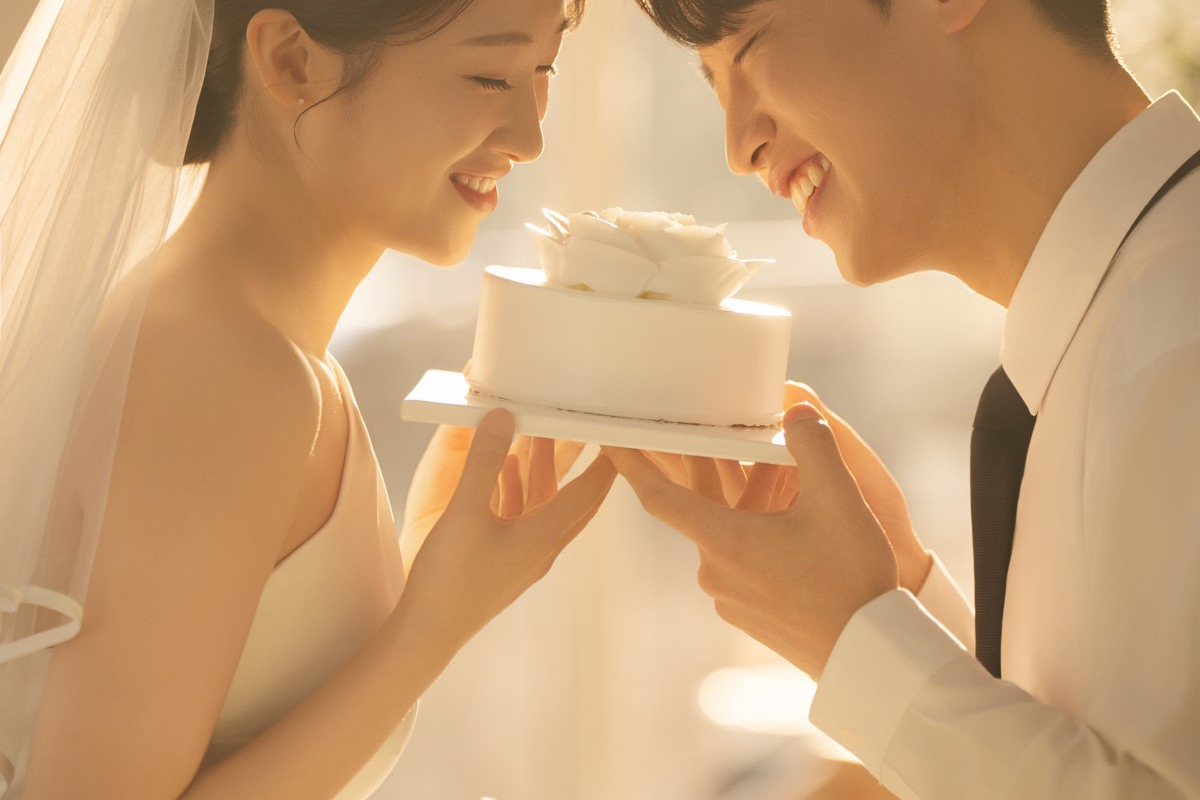
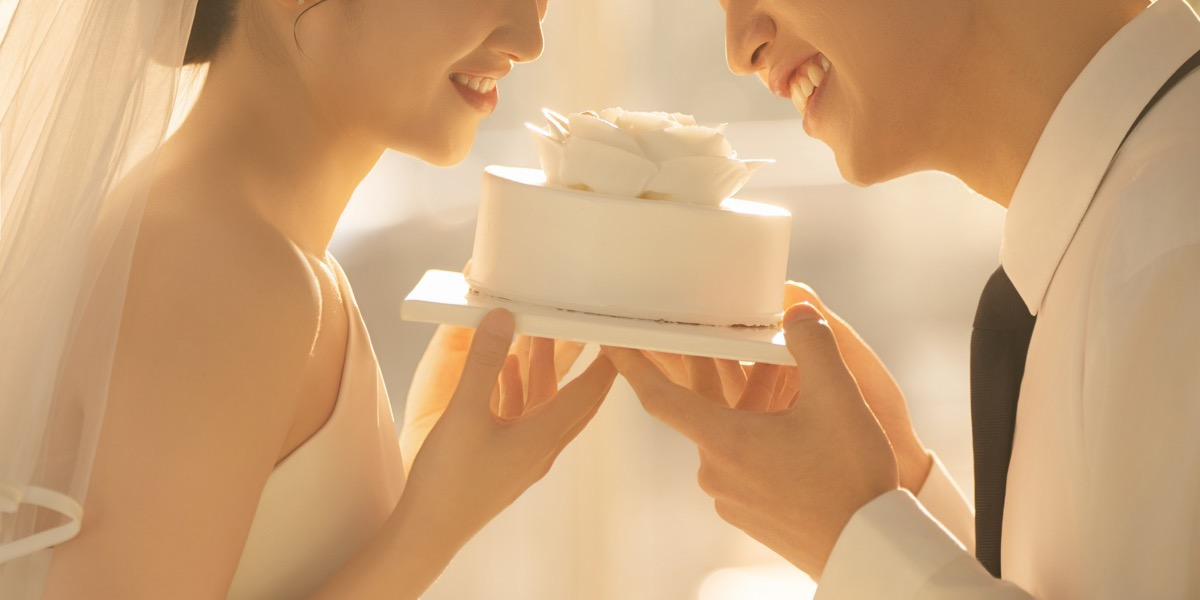
OG 이미지 2:1 비율로 변경 (1200x600) - 큰 카드 표시

diff --git a/index.html b/index.html
@@ -10,7 +10,7 @@
   <meta property="og:description" content="2026년 5월 09일 오후 6시 | MBC컨벤션진주">
   <meta property="og:image" content="https://thme808.github.io/wedding-invitation/images/og-image.jpeg">
   <meta property="og:image:width" content="1200">
-  <meta property="og:image:height" content="800">
+  <meta property="og:image:height" content="600">
   <link rel="preconnect" href="https://fonts.googleapis.com">
   <link href="https://fonts.googleapis.com/css2?family=Noto+Serif+KR:wght@200;300;400;500;600;700&display=swap" rel="stylesheet">
   <link href="https://unpkg.com/aos@2.3.1/dist/aos.css" rel="stylesheet">
